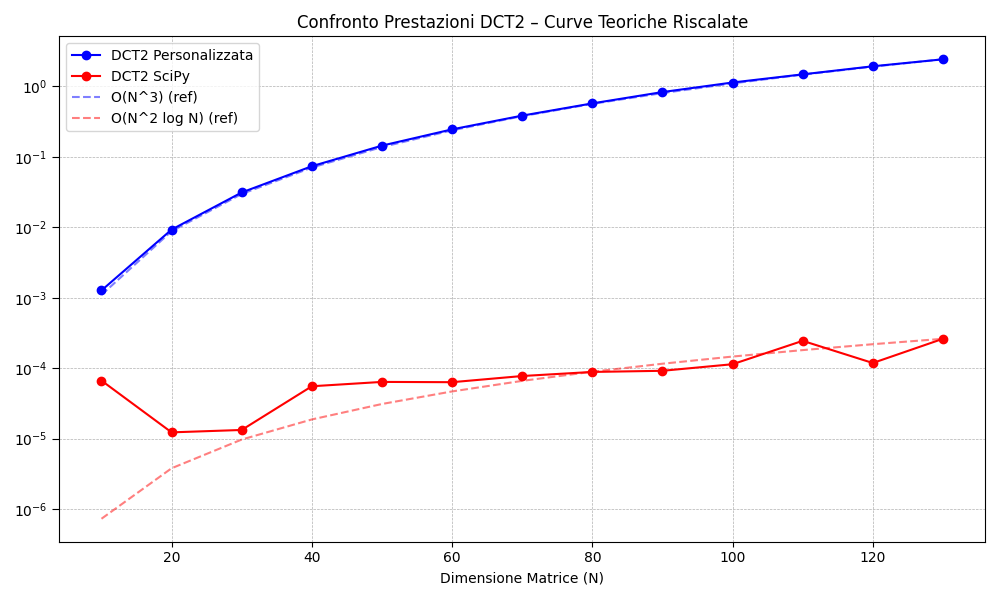
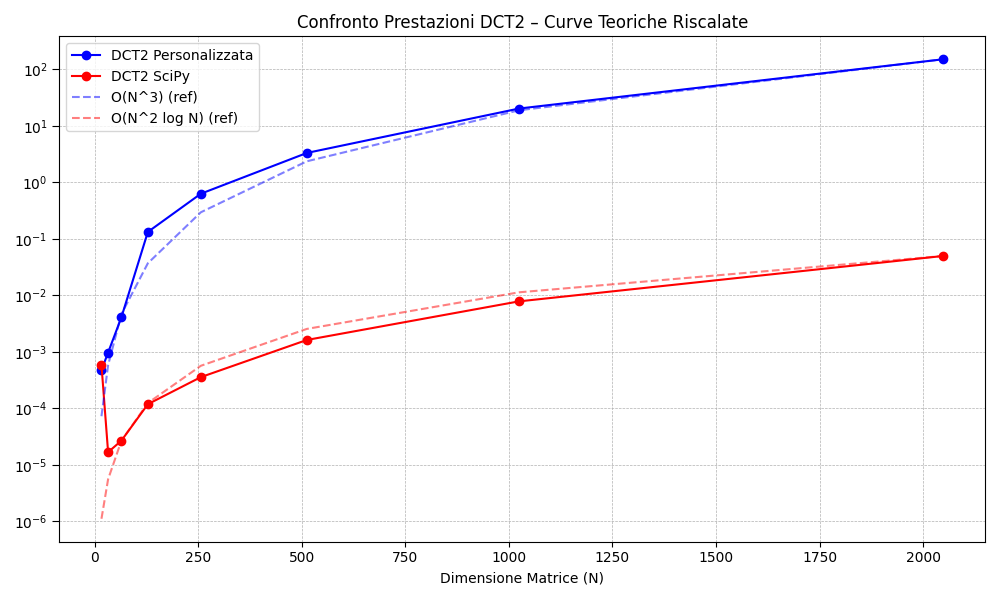
is it fast enough now?
i hope

diff --git a/dct_utilis.py b/dct_utilis.py
@@ -14,45 +14,39 @@ def one_dim_dct2(vector):
       The 1D DCT-II of the input vector.
     """
     N = len(vector)
+    vector = np.asarray(vector, dtype=float)
     dct_vector = np.zeros(N, dtype=float)
 
-    for k in range(N):
-        ck = 1.0 / np.sqrt(N) if k == 0 else np.sqrt(2.0 / N)
-        sum_val = 0.0
-        for n in range(N):
-            sum_val += vector[n] * np.cos(((2 * n + 1) * k * np.pi) / (2 * N))
-        dct_vector[k] = ck * sum_val
+    # Precompute normalization factors ck
+    ck = np.sqrt(2.0 / N) * np.ones(N)
+    ck[0] = 1.0 / np.sqrt(N)
+
+    # Precompute cosine terms
+    cos_table = np.cos(
+        np.pi * np.outer(2 * np.arange(N) + 1, np.arange(N)) / (2 * N))
+
+    # Matrix-style computation for better cache efficiency
+    dct_vector = ck * np.dot(cos_table.T, vector)
 
     return dct_vector
 
 
 def custom_dct2(matrix):
     """
-    Computes the 2D DCT-II of a matrix using the separable property
-    and the direct 1D DCT-II implementation.
-
-    Args:
-      matrix: A 2D NumPy array (must be square, N x N).
-
-    Returns:
-      The 2D DCT-II of the input matrix.
+    Computes the 2D DCT-II of a square matrix using the separable property
+    and an optimized 1D DCT-II implementation.
     """
-    N = matrix.shape[0]
-    if matrix.shape[1] != N:
+    N, M = matrix.shape
+    if N != M:
         raise ValueError("Input matrix must be square.")
 
-    # Step 1: Apply 1D DCT to each row
-    intermediate_matrix = np.zeros_like(matrix, dtype=float)
-    for i in range(N):
-        intermediate_matrix[i, :] = one_dim_dct2(matrix[i, :])
+    # First DCT along rows
+    temp = np.apply_along_axis(one_dim_dct2, axis=1, arr=matrix)
 
-    # Step 2: Apply 1D DCT to each column of the intermediate matrix
-    result_matrix = np.zeros_like(matrix, dtype=float)
+    # Then DCT along columns
+    result = np.apply_along_axis(one_dim_dct2, axis=0, arr=temp)
 
-    for j in range(N):
-        result_matrix[:, j] = one_dim_dct2(intermediate_matrix[:, j])
-
-    return result_matrix
+    return result
 
 
 def scipy_dct2(matrix):

diff --git a/main.py b/main.py
@@ -3,7 +3,7 @@ from plot_utils import plot_performance
 
 
 def main():
-    sizes = [1000]
+    sizes = [2**i for i in range(5, 13)]
     custom_times, scipy_times = benchmark_dct2(sizes)
     plot_performance(sizes, custom_times, scipy_times)
 
